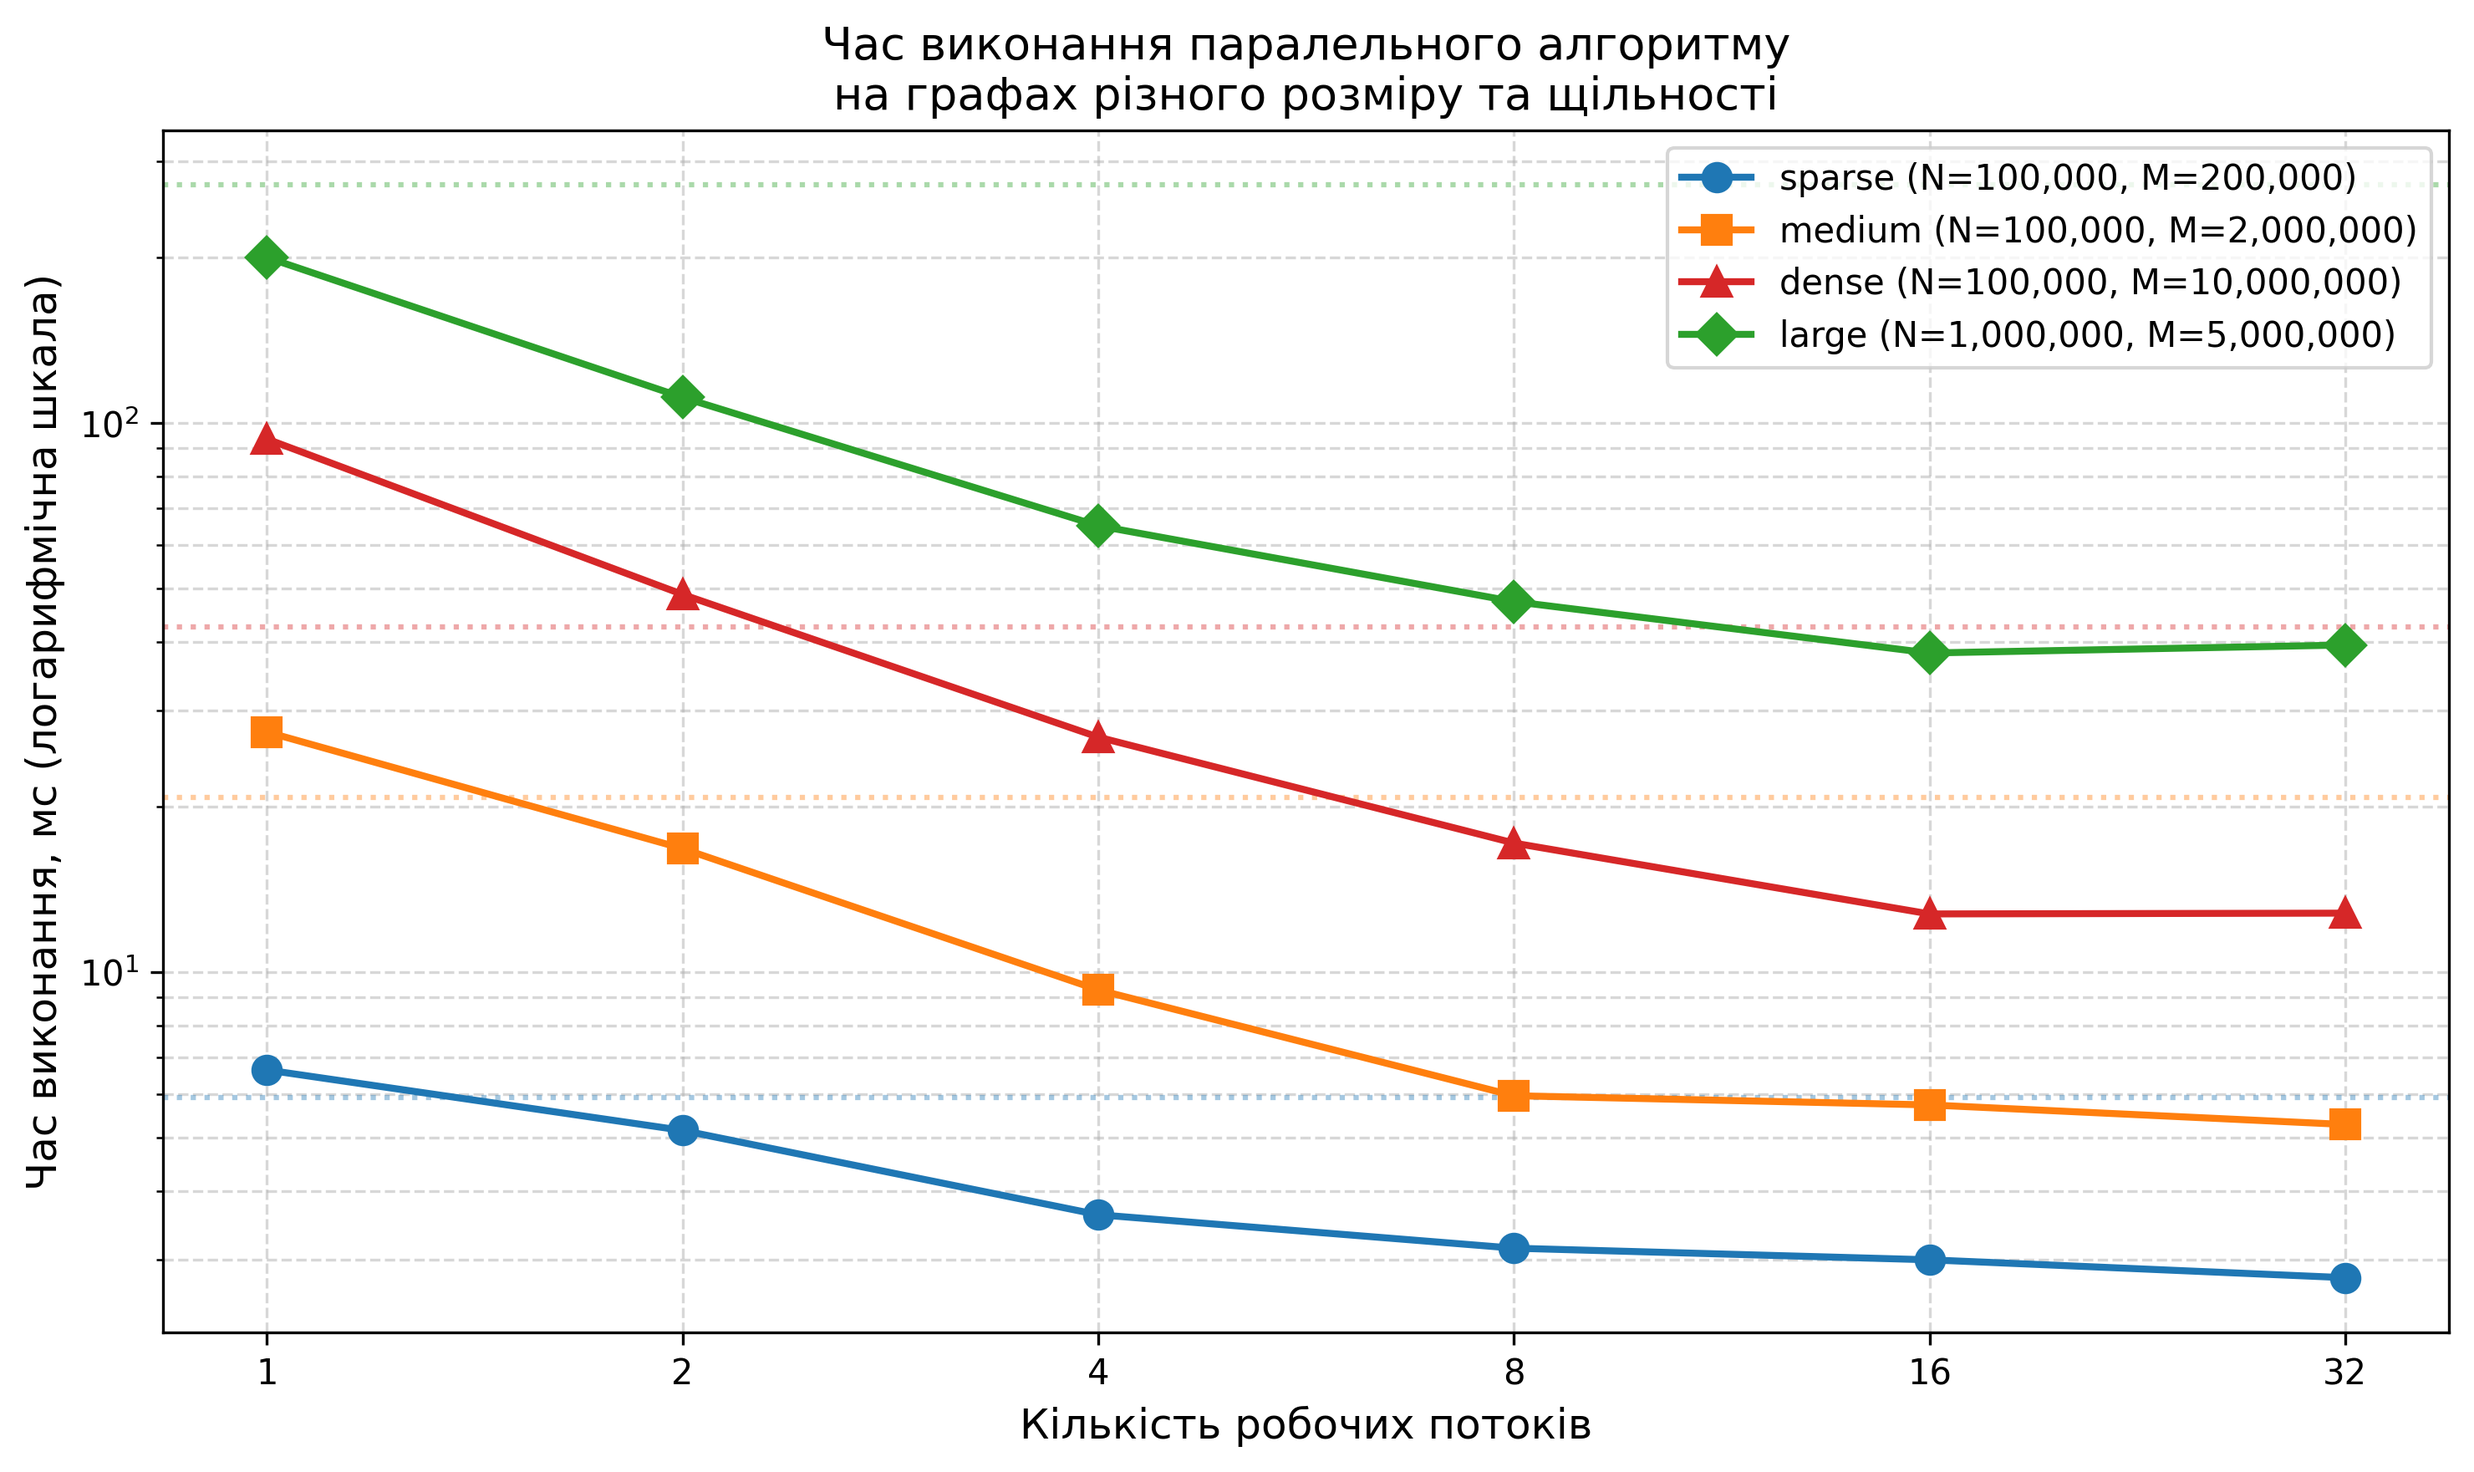
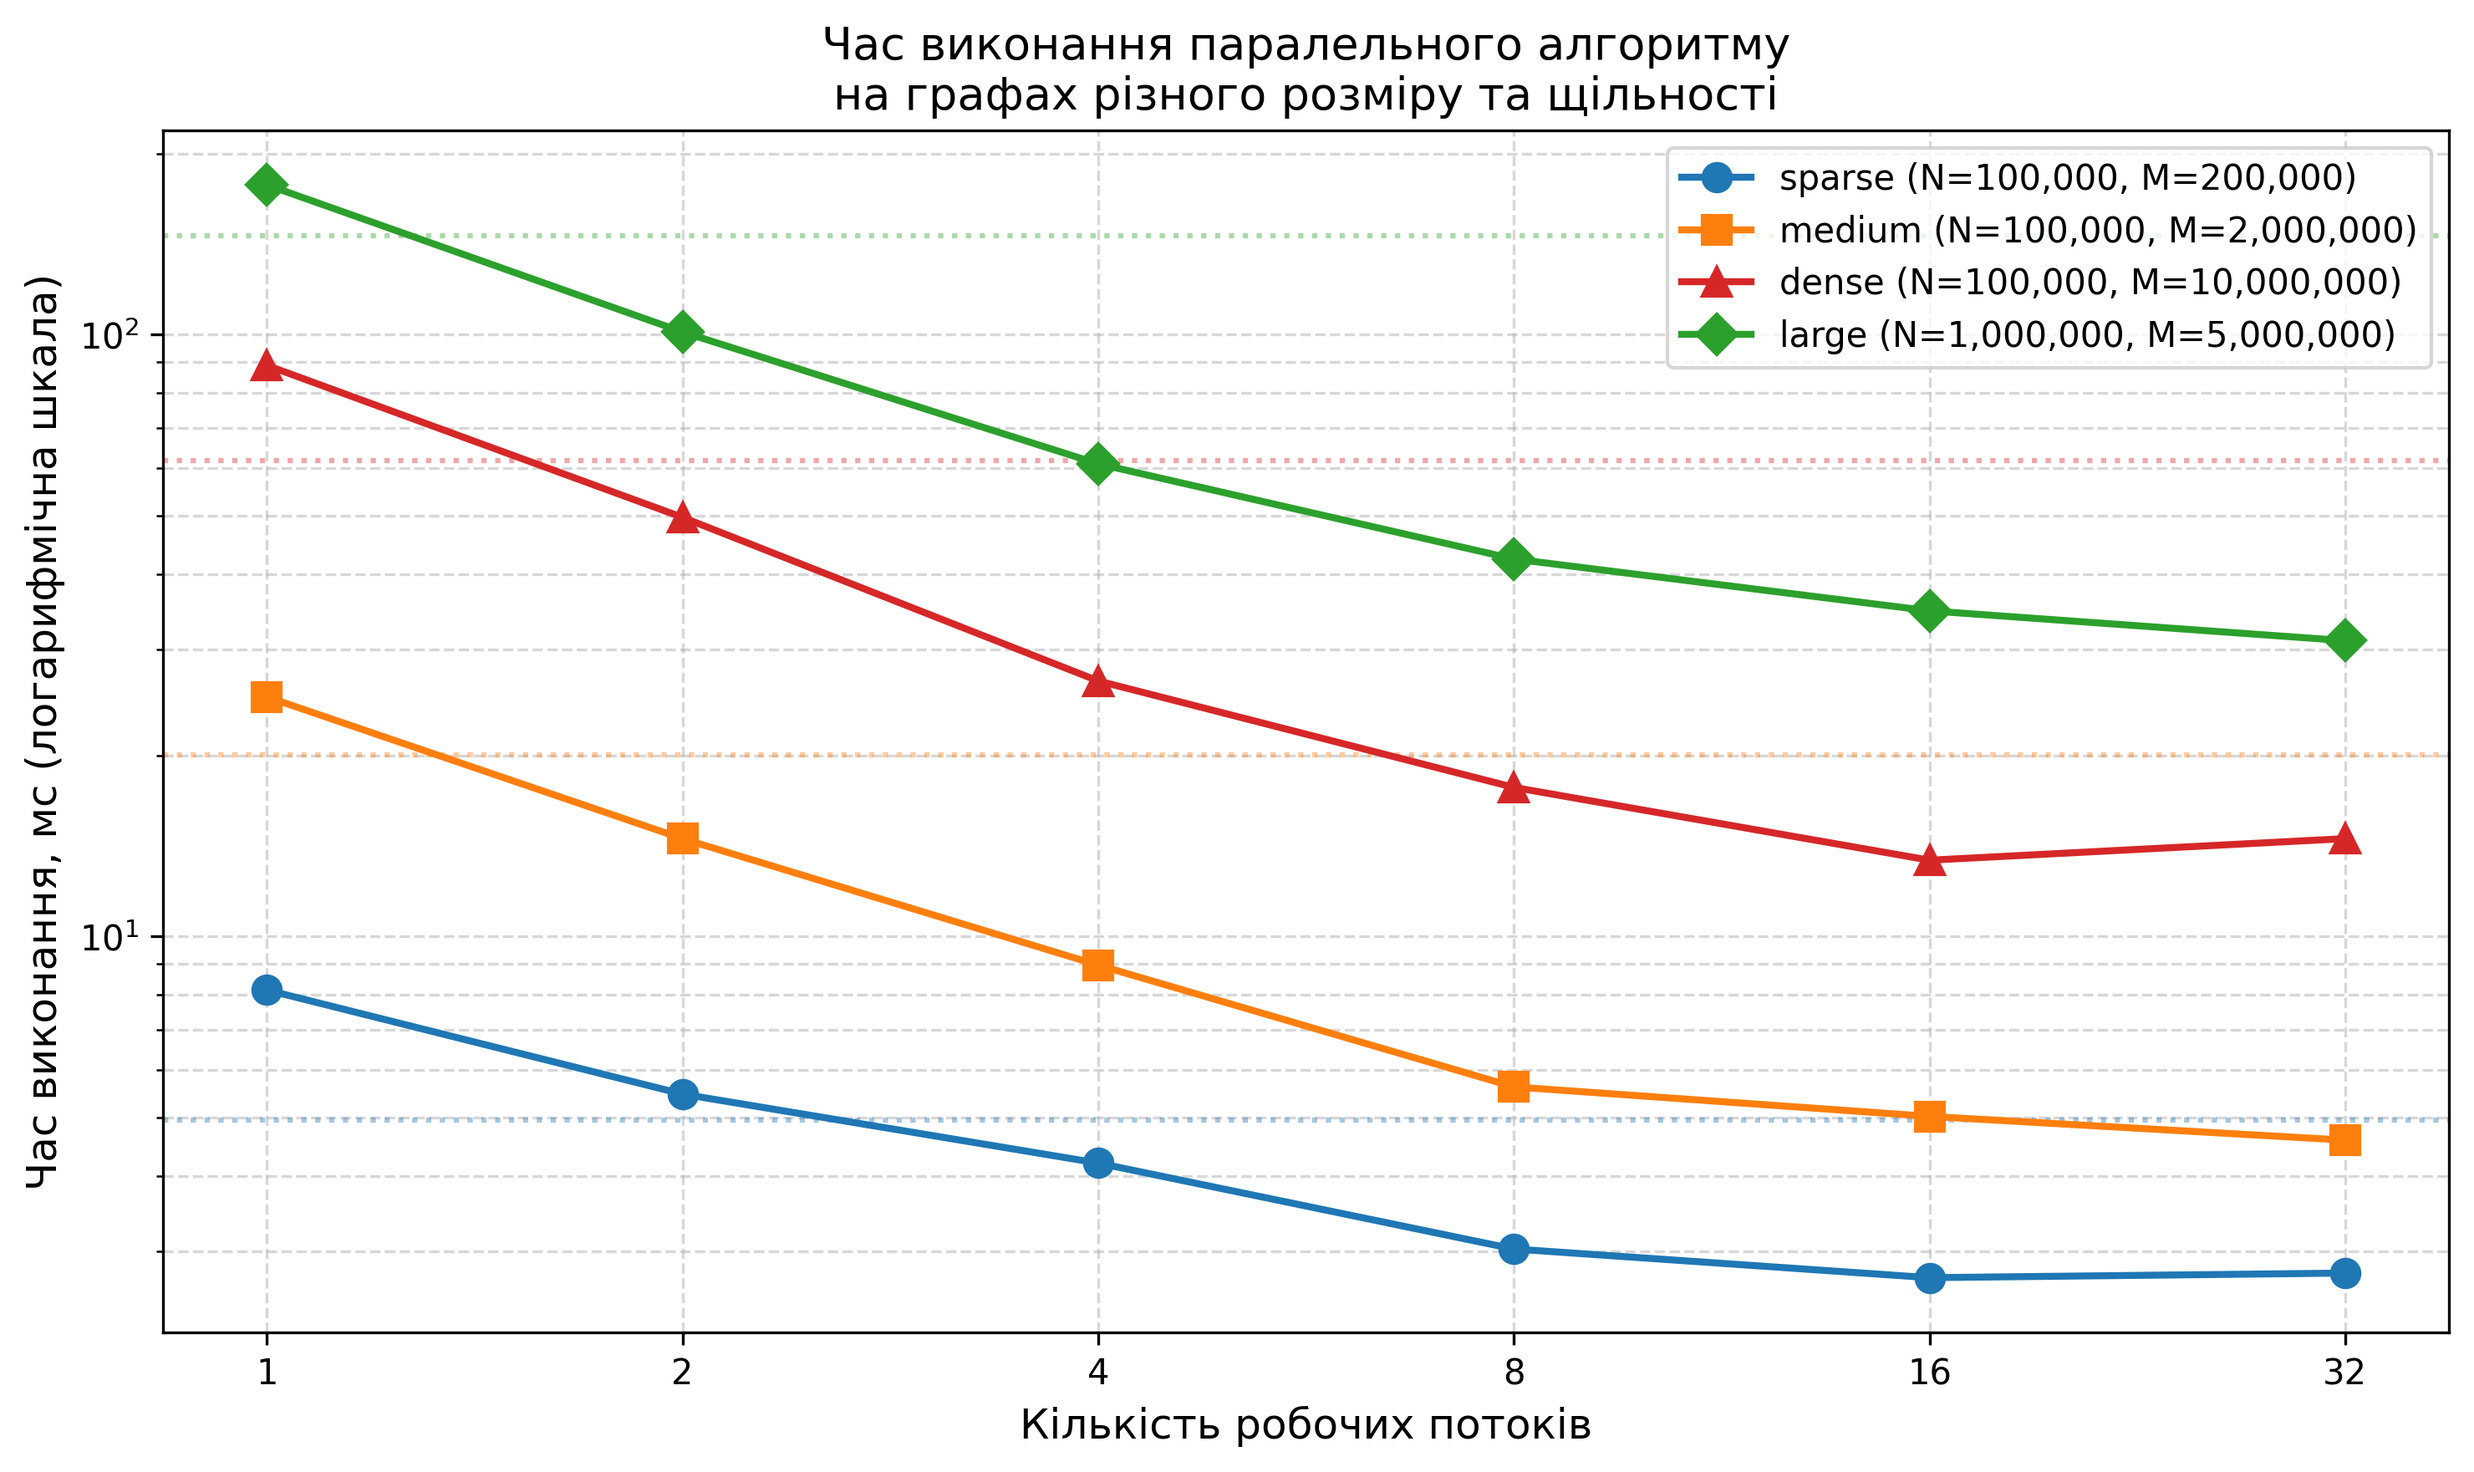
finally commit

diff --git a/csharp-cc/Algorithms/SequentialSolver.cs b/csharp-cc/Algorithms/SequentialSolver.cs
@@ -6,49 +6,41 @@ public sealed class SequentialSolver : ISolver
 
     public int[][] FindComponents(Graph.Graph graph)
     {
-        ArgumentNullException.ThrowIfNull(graph);
-
         int n = graph.NodeCount;
-        if (n == 0)
-            return Array.Empty<int[]>();
+        if (n == 0) return Array.Empty<int[]>();
 
-        var visited = new bool[n];
-        var components = new List<int[]>();
-
-        var stack = new Stack<int>(capacity: 64);
-        var componentBuffer = new List<int>(capacity: 64);
-
-        for (int start = 0; start < n; start++)
+        var uf = new SequentialUnionFind(n);
+        
+        for (int u = 0; u < n; u++)
         {
-            if (visited[start])
-                continue;
-
-            componentBuffer.Clear();
-            stack.Clear();
-
-            stack.Push(start);
-            visited[start] = true;
-
-            while (stack.Count > 0)
-            {
-                int node = stack.Pop();
-                componentBuffer.Add(node);
-
-                var neighbors = graph.Edges[node];
-                for (int i = 0; i < neighbors.Count; i++)
-                {
-                    int neighbor = neighbors[i];
-                    if (!visited[neighbor])
-                    {
-                        visited[neighbor] = true;
-                        stack.Push(neighbor);
-                    }
-                }
-            }
-
-            components.Add(componentBuffer.ToArray());
+            var neighbors = graph.Edges[u];
+            for (int i = 0; i < neighbors.Count; i++)
+                uf.Union(u, neighbors[i]);
         }
 
-        return components.ToArray();
+        return CollectComponents(uf, n);
+    }
+
+    private static int[][] CollectComponents(SequentialUnionFind uf, int n)
+    {
+        var rootToIdx = new Dictionary<int, int>();
+        var components = new List<List<int>>();
+
+        for (int i = 0; i < n; i++)
+        {
+            int root = uf.Find(i);
+            if (!rootToIdx.TryGetValue(root, out int idx))
+            {
+                idx = components.Count;
+                rootToIdx[root] = idx;
+                components.Add(new List<int>());
+            }
+            components[idx].Add(i);
+        }
+
+        var result = new int[components.Count][];
+        for (int i = 0; i < components.Count; i++)
+            result[i] = components[i].ToArray();
+        return result;
     }
 }

diff --git a/csharp-cc/Algorithms/SequentialUnionFind.cs b/csharp-cc/Algorithms/SequentialUnionFind.cs
@@ -1,0 +1,46 @@
+namespace ConnectedComponents.Algorithms;
+
+public sealed class SequentialUnionFind
+{
+    private readonly int[] _parent;
+    private readonly int[] _rank;
+
+    public SequentialUnionFind(int n)
+    {
+        _parent = new int[n];
+        _rank = new int[n];
+        for (int i = 0; i < n; i++) _parent[i] = i;
+    }
+
+    public int Find(int x)
+    {
+        while (true)
+        {
+            int p = _parent[x];
+            int gp = _parent[p];
+            if (p == gp) return p;
+            _parent[x] = gp;
+            x = gp;
+        }
+    }
+
+    public bool Union(int a, int b)
+    {
+        int ra = Find(a);
+        int rb = Find(b);
+        if (ra == rb) return false;
+
+        int rankA = _rank[ra];
+        int rankB = _rank[rb];
+
+        if (rankA < rankB || (rankA == rankB && ra > rb))
+        {
+            (ra, rb) = (rb, ra);
+            (rankA, rankB) = (rankB, rankA);
+        }
+
+        _parent[rb] = ra;
+        if (rankA == rankB) _rank[ra]++;
+        return true;
+    }
+}

diff --git a/csharp-cc/Cli/Program.cs b/csharp-cc/Cli/Program.cs
@@ -115,7 +115,7 @@ internal static class Program
 
         Console.WriteLine();
         Console.WriteLine("Виберіть алгоритм:");
-        Console.WriteLine("  1) sequential (DFS)");
+        Console.WriteLine("  1) sequential (однопотоковий, класичний Union-Find)");
         Console.WriteLine("  2) parallel (Lock-free Union-Find)");
         Console.WriteLine("  3) обидва (для порівняння)");
         Console.Write("Ваш вибір (Enter для 'обидва'): ");
